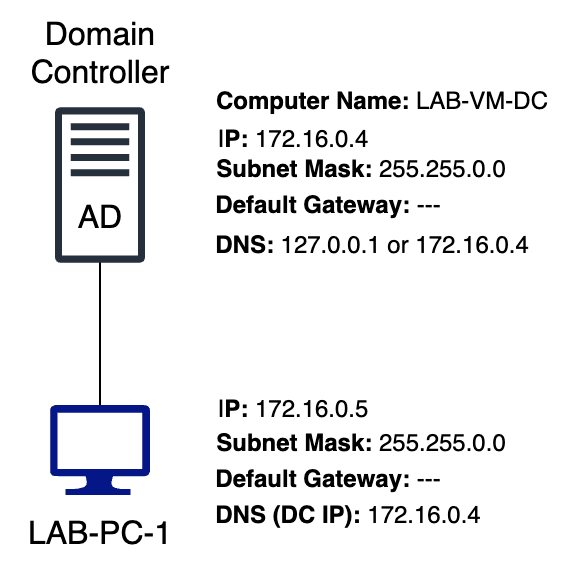
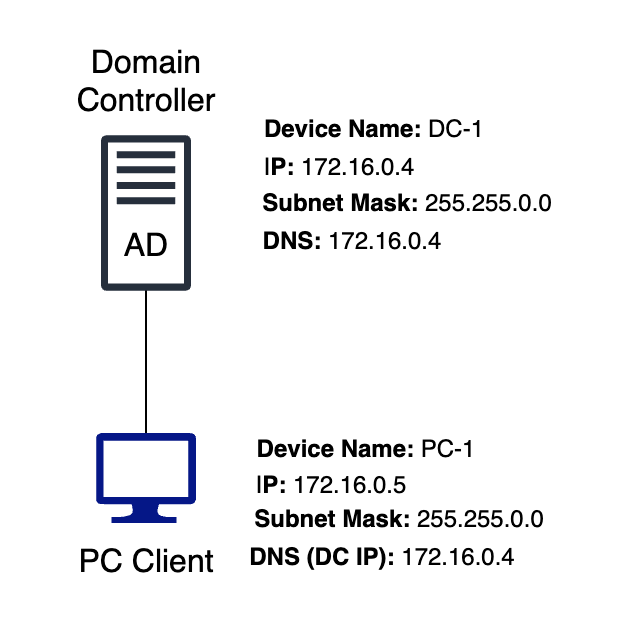
edit images/texts

Changed region(s): [[0.0596, 0.0308, 0.9544, 0.9555], [0.0596, 0.9247, 0.0895, 0.9555], [0.0298, 0.8938, 0.0596, 0.9247]]

diff --git a/azure/windows-server-deployment/03-active-directory/03-join-a-PC-to-AD/join-a-pc to-ad-domain.md b/azure/windows-server-deployment/03-active-directory/03-join-a-PC-to-AD/join-a-pc to-ad-domain.md
@@ -7,14 +7,15 @@ The purpose of this lab is to understand how to domain join a PC and verify that
 <p align="center">
   <img src="screenshots/00-network-diagram.png" 
        alt="Network Diagram" 
-       width="350"><br>
-  <em>Figure 1: Network Diagram: 1 DC, 1 PC client, with configuration set up on the server and PC</em>
+       width="250"><br>
+  <em>Configuration set up on the both DC server and PC Client</em>
 </p>
 
 ## Prerequisites
 1. Have Windows Server hosted on Microsoft Azure cloud
 2. Roles and Features are installed on Windows Server
     - Refer to: [Windows Server 2025 Deployment][wsd]
+
 3. Promote Windows Server to Domain Controller 
     - Refer to: [Domain Controller Promotion][dcp]
 
@@ -27,18 +28,15 @@ The purpose of this lab is to understand how to domain join a PC and verify that
 - Follow the same setup in: [Windows Server 2025 Deployment][wsd] and name the VM.
 
 - Check Virtual Network (VNet) by going to the **Networking** tab.
-- Set **VNet** same as your DC.
+- Set **VNet** same as your DC servers.
+
+    * **Note**: Virtual Machines within the same virtual network can communicate with each other by default.
+
 - Go to **Network settings** and click on your NIC.
 
-<img src="screenshots/01-check-vnet-and-subnet.png" alt="Match VNet and subnet to DC" width="650">
+    <img src="screenshots/01-check-vnet-and-subnet.png" alt="Match VNet and subnet to DC" width="450">
 
-*PC's IP Configuration*
-
-<img src="screenshots/04-dc-ip-settings.png" alt="DC IP settings" width="650">
-
-*DC's IP Configuration*
-
-*Note: This PC should be in the same Virtual Network (VNet) as DC. Being in the same subnet simplifies configuration but not strictly required*
+*Note: This PC should be in the same Virtual Network (VNet) as DC. Being in the same subnet simplifies configuration but not strictly required.*
 
 
 ### Step 2: Resolve this PC to domain name 
@@ -51,80 +49,79 @@ The purpose of this lab is to understand how to domain join a PC and verify that
 ### Step 3: Connect via Bastion for your PC
 
 ### Step 4: Connect Domain to PC
-- Go to Settings from the Start menu
-- Systems -> About -> Advanced Systems Settings 
+- Go to Settings from the Start menu on client PC
+- **Systems** -> **About** -> **Advanced Systems Settings**
 - Go to **Computer Name** tab
-- The device is initially set to WORKGROUP
-- Click 'Change..' to join this PC to the DC
-- Click **Member of Domain** option and enter the same domain name from: [Domain Controller Promotion][dcp] (In this case: **lab.local**)
+- The device is initially set to **WORKGROUP**
+- Click **Change..** to join this PC to the DC
+- Click **Domain** option under **Member of** and enter the same domain name from: [Domain Controller Promotion][dcp]
 
-<img src="screenshots/02-add-domain-name-as-a-member-of-this-pc.png" alt="Add domain name as a member of this PC" width="650">
+    <img src="screenshots/02-add-domain-name-as-a-member-of-this-pc.png" alt="Add domain name as a member of this PC" width="250">
 
 *Note: There may be an troubleshooting step here because Bastion sometimes does not update the DNS, so we would need to manually input the DNS IP address. See Troubleshooting steps for more information.*
 
 - Enter the domain username and password.
 
-<img src="screenshots/06-Connect to your DC.png" alt="Connect to DC computer" width="650">
+    <img src="screenshots/06-Connect to your DC.png" alt="Connect to DC computer" width="350">
 
-- Will see a message confirming the domain was successufly joined. The computer will restart after successful joining.
+- After successful login, a message will popup that the PC has successfulling joined to the domain. The computer will restart after successful joining.
 
-<img src="screenshots/07-access-to-your-dc.png" alt="Success message of accesss DC" width="350">
+    <img src="screenshots/07-access-to-your-dc.png" alt="Success message of accesss DC" width="250">
 
-### Troubleshooting:
-<img src="screenshots/03-troubleshooting.png" alt="Could not be contacted error" width="450">
-
-- If you see an error:
-    - "AD DC for the domain could not be contacted" which means DNS was not able to reach the domain so make sure that your newly created PC is in the same subnet and Virtual network (VNet) as your DC
-
-Steps to fix: 
-1. In the search bar, type: **ncpa.cpl** to open Ethernet Connector
-2. Right click on Ethernet adapter and go to **Properties**
-3. Click on IPv4, and go to **Properties**
-
-4. Then, on a seporate tab, open Command Prompt
-5. Run: **ipconfig /all** 
-    - To check the DNS Server IP 
-    - If it does not match your DC's IP address, go back to IPv4 setting and manually enter your DC's IP address. Click **Ok** 
-
-<img src="screenshots/05-troubleshooting-match-DNS-to-DC IP.png" alt="Match DNS to DCs" width="650">
-
-### Step 5: Verify that the PC is Connected to the DC
-- Open Command Prompt on the PC
-- Ping the domain name:
-    - **ping lab-dc** to test hostname resolution
-
-    <img src="screenshots/08-check-for-connectivity-on-dc-from-pc.png" alt="Check for connctivity on DC from PC" width="650">
-
-- If success you will recieve connection replies and if not, the request will time out.
-
-- Go on your DC VM and go to **Active Directory Users and Computers**. Under **Computers**, the newly created PC should appear.
+### Step 5: Verify PC joining on DC
+- Switch back to DC's VM and navigate to **Active Directory Users and Computers**. Under **Computers**, the newly created PC should appear.
 - Move the new PC to the correct OU by dragging it to the branch you created called Computers.
 
-<img src="screenshots/09-join-computer-to-domain.png" alt="Propagated PC on DC" width="650">
+    <img src="screenshots/09-join-computer-to-domain.png" alt="Propagated PC on DC" width="350">
+
+### Step 6: Verify that the PC is Connected to the DC from Client PC
+- Open Command Prompt on the PC
+- Ping the domain name:
+    - **ping [dcDomainName]** to test hostname resolution
+
+        <img src="screenshots/08-check-for-connectivity-on-dc-from-pc.png" alt="Check for connctivity on DC from PC" width="350">
+
+        - If success you will recieve connection replies and if not, the request will time out.
+
+- Go back to steps 4 to connect PC to Domain.
+
 
 ### Step 6: Commands to see User Accounts
 - Run **net user** to see what user is on the system
 
-<img src="screenshots/10-net-user.png" alt="Net user command" width="650"> 
+    <img src="screenshots/10-net-user.png" alt="Net user command" width="350"> 
 
 - Run **net localgroup administrators** to see who is the member of the Administrators group.
 
-<img src="screenshots/12-net-localgroup-admin.png" alt="Command to view who is in the member in the Admin group" width="650">
-
-Another way to check:
-    - Search for **Local Users and Groups** in the search bar
-    - Click on **Groups** -> **Administrators**
-    - View the members of the Administrators group.
-
-<img src="screenshots/11-Admin group.png" alt="View who is in the member in the Admin group" width="650">
-
-### Steps 7: Delete Admin User and Group
-- After creating temperary administrator user and group, delete them using:
-    - To remove a local user: **net user username /delete**
-    - To remove user from admin group: **net localgroup administrators default /delete**
+    <img src="screenshots/12-net-localgroup-admin.png" alt="Command to view who is in the member in the Admin group" width="350">
 
 
-## Notes:
+---
+---
+
+## Troubleshooting:
+If you see an error:
+
+<img src="screenshots/03-troubleshooting.png" alt="Could not be contacted error" width="250">  
+
+- This means that the DNS was not able to reach the domain. To troubleshoot this make sure that newly created PC is in the same subnet and Virtual network (VNet) as your DC.
+
+### Steps:
+1. In the search bar, type: **ncpa.cpl** to open Ethernet Connector on client PC.
+2. Right click on Ethernet adapter and go to **Properties**
+3. Click on IPv4, and go to **Properties**
+4. Then, on a seporate tab, open **Command Prompt**
+5. Run: **ipconfig /all** 
+    - Check if your client PC's DNS Server IP address matches the DC's IP address.
+    - If it does not match your DC's IP address, go back to IPv4 setting and manually enter your DC's IP address. Click **Ok** 
+
+        <img src="screenshots/05-troubleshooting-match-DNS-to-DC IP.png" alt="Match DNS to DCs" width="250">
+
+
+---
+---
+
+## Notes on Microsoft Azure:
 - Joining a domain only works for windows version Pro/Enterprise. Windows home version does not have the functionally to join the server.
 
 
